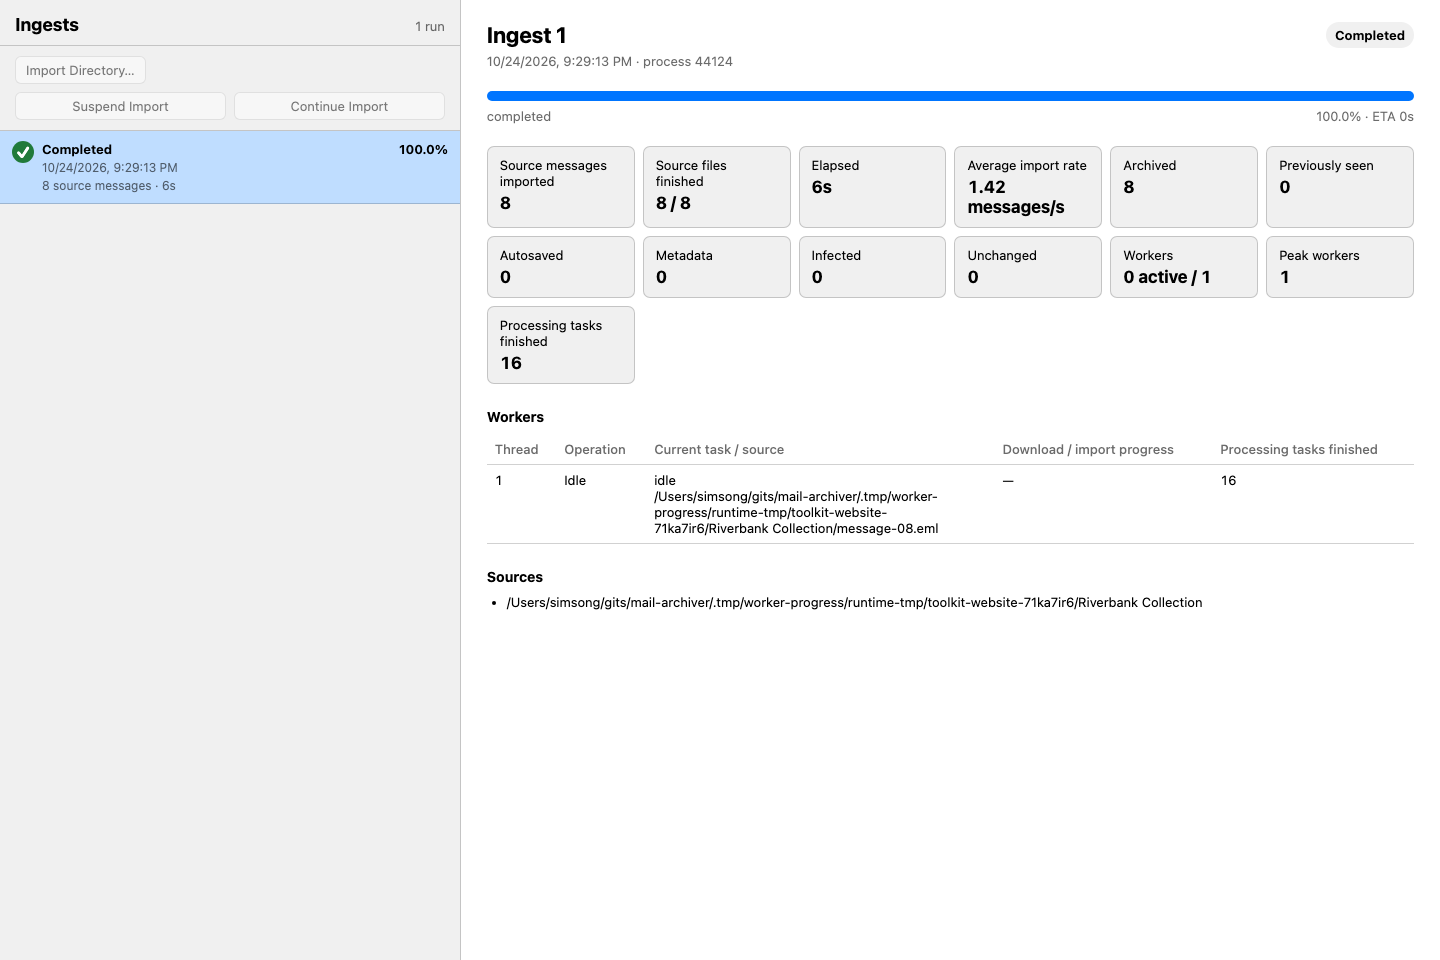
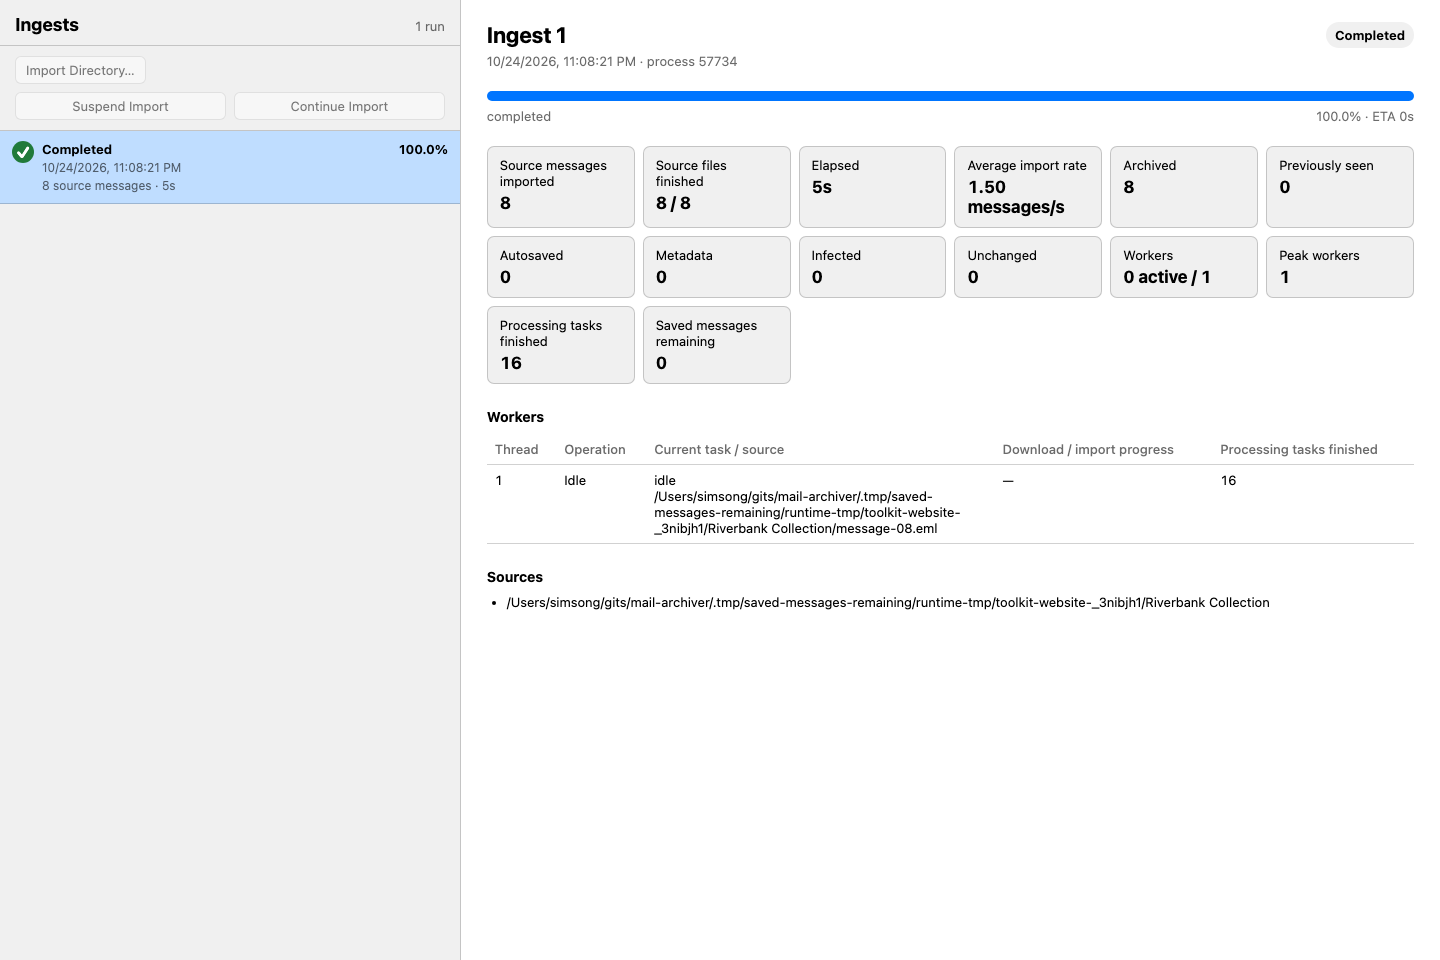
Show remaining saved email messages during processing
Count distinct archived messages with unfinished processing work, publish the backlog in ingest snapshots, and display it in the Ingests window. Keep reporting outside processor fingerprints and refresh only on the driver thread. Bump to 1.0.0a26.

diff --git a/gui/ingests.js b/gui/ingests.js
@@ -224,6 +224,7 @@ function statistics(status) {
   const processing = processingMode(status);
   const imap = status.source_roots.length > 0 && status.source_roots.every(root => root.startsWith("imap://"));
   const values = processing ? [
+    ["Saved messages remaining", status.saved_messages_remaining == null ? "Unavailable" : integer(status.saved_messages_remaining)],
     ["Processing tasks finished", integer(status.processing_jobs_completed)],
     ["Average processing rate", `${(Number(status.processing_jobs_completed) / Math.max(Number(status.elapsed_seconds), 1)).toFixed(2)} tasks/s`],
     ["Elapsed", formatDuration(status.elapsed_seconds)],
@@ -243,11 +244,13 @@ function statistics(status) {
     ["Peak workers", integer(status.peak_workers)]);
   const grid = document.createElement("div");
   if (!processing && status.processing_jobs_completed) values.push(["Processing tasks finished", integer(status.processing_jobs_completed)]);
+  if (!processing && status.saved_messages_remaining != null) values.push(["Saved messages remaining", integer(status.saved_messages_remaining)]);
   grid.className = "statistics";
   for (const [label, value] of values) {
     const cell = document.createElement("div");
     cell.className = "stat";
     if (label === "Processing tasks finished") cell.title = "Completed tasks for messages or MIME parts, including metadata extraction and search indexing. Several tasks can belong to one email.";
+    if (label === "Saved messages remaining") cell.title = "Distinct archived emails with pending, running or failed work, including body and attachment tasks and blocked prerequisites. Excludes future downloads. Older runs may not report this count.";
     cell.append(textSpan(label), textBlock(value, "strong"));
     grid.append(cell);
   }

diff --git a/e2e_tests/test_gui_processing.py b/e2e_tests/test_gui_processing.py
@@ -281,7 +281,7 @@ def test_processing_history_shows_jobs_instead_of_zero_source_progress(tmp_path:
         "started_at": now, "updated_at": now, "completed_at": None, "phase": "recovering archived content",
         "processing_active": True, "processing_job_id": 42, "processing_processor": "mime",
         "processing_jobs_completed": 1665, "active_workers": 2, "peak_workers": 2, "configured_workers": 2,
-        "elapsed_seconds": 120, "workers": [worker, second], "percent": 0, "eta": "finalizing"})
+        "elapsed_seconds": 120, "workers": [worker, second], "percent": 0, "eta": "finalizing", "saved_messages_remaining": 37})
     status_file = IngestStatusFile(archive, status.status_id)
     status_file.write(status)
     expose(page, IngestWindowApi(archive), ("history", "antivirus", "can_import_directory"))
@@ -291,6 +291,11 @@ def test_processing_history_shows_jobs_instead_of_zero_source_progress(tmp_path:
     expect(page.locator(".progress-caption")).not_to_contain_text("finalizing")
     expect(page.locator(".statistics")).not_to_contain_text("Messages")
     expect(page.locator(".statistics")).not_to_contain_text("Files")
+    remaining = page.locator(".stat").filter(has_text="Saved messages remaining").locator("strong")
+    expect(remaining).to_have_text("37")
+    status_file.write(status.model_copy(update={"updated_at": datetime.now(UTC), "saved_messages_remaining": 36}))
+    page.evaluate("window.refreshHistory()")
+    expect(remaining).to_have_text("36")
     rows = page.locator(".worker-table tbody tr")
     expect(rows.nth(0)).to_contain_text("Processing saved mail")
     expect(rows.nth(0)).to_contain_text("Extracting message bodies and attachments")
@@ -306,17 +311,19 @@ def test_processing_history_shows_jobs_instead_of_zero_source_progress(tmp_path:
     page.screenshot(path=str(previews / "processing-progress.png"))
     # A processing stage stays meaningful between jobs; older rows have no reliable worker total.
     status_file.write(status.model_copy(update={"updated_at": datetime.now(UTC), "processing_active": False,
-        "activity_kind": "processing", "workers": [worker.model_copy(update={"phase": "idle", "processing_jobs_completed": None})]}))
+        "activity_kind": "processing", "saved_messages_remaining": None,
+        "workers": [worker.model_copy(update={"phase": "idle", "processing_jobs_completed": None})]}))
     page.evaluate("window.refreshHistory()")
     expect(page.locator(".statistics")).to_contain_text("Processing tasks finished")
     expect(page.locator(".statistics")).not_to_contain_text("Source messages")
+    expect(remaining).to_have_text("Unavailable")
     expect(page.locator(".worker-table tbody tr td").last).to_have_text("Unavailable")
     downloading = worker.model_copy(update={"phase": "fetching messages", "operation": "downloading",
         "path": "Inbox", "activity_done": 25, "activity_total": 100, "activity_unit": "messages"})
     scanning = second.model_copy(update={"phase": "scanning", "operation": "processing", "activity_unit": None})
     status_file.write(status.model_copy(update={"updated_at": datetime.now(UTC), "phase": "ingesting",
         "activity_kind": "source", "processing_active": False, "source_roots": ["imap://unavailable-account"],
-        "workers": [downloading, scanning], "processed_messages": 25}))
+        "workers": [downloading, scanning], "processed_messages": 25, "saved_messages_remaining": None}))
     page.evaluate("window.refreshHistory()")
     expect(rows.nth(0).locator("td").nth(1)).to_have_text("Downloading")
     expect(rows.nth(0)).to_contain_text("25 / 100 messages")
@@ -325,10 +332,11 @@ def test_processing_history_shows_jobs_instead_of_zero_source_progress(tmp_path:
     expect(page.locator(".statistics")).to_contain_text("Download partitions finished")
     status_file.write(status.model_copy(update={"state": "completed", "updated_at": datetime.now(UTC),
         "activity_kind": "processing", "source_roots": ["imap://unavailable-account"],
-        "processed_messages": 25, "files_processed": 8, "files_total": 8}))
+        "processed_messages": 25, "files_processed": 8, "files_total": 8, "saved_messages_remaining": 0}))
     page.evaluate("window.refreshHistory()")
     expect(page.locator(".statistics")).to_contain_text("Source messages downloaded")
     expect(page.locator(".statistics")).to_contain_text("Processing tasks finished")
+    expect(remaining).to_have_text("0")
     expect(page.locator(".history-row.selected .history-summary")).to_contain_text("25 source messages")
     app, api = open_headless(archive, tmp_path / "preferences.json")
     search_page, about_page = page.context.new_page(), page.context.new_page()

diff --git a/tests/test_progress.py b/tests/test_progress.py
@@ -50,7 +50,8 @@ from mailarchiver.sources import SourceInventory
 from mailarchiver.processing.api import ProcessingObject
 from mailarchiver.processing.registry import fingerprint, load_processors
 from mailarchiver.processing.runtime import run
-from mailarchiver.processing.store import connect, submit
+from mailarchiver.processing.store import connect, enqueue, submit
+from mailarchiver.processing_progress import saved_messages_remaining
 from tests.test_processing import MESSAGE, plugin
 
 
@@ -566,6 +567,57 @@ def test_processor_recovery_publishes_live_activity_and_finished_jobs(tmp_path: 
     assert final.active_workers == 0 and final.workers[0].phase == "idle"
     assert [worker.processing_jobs_completed for worker in final.workers] == [2, 1]
     assert final.processed_messages == final.files_processed == final.counts.archived == 0
+
+
+def test_saved_message_backlog_deduplicates_parts_and_tracks_unfinished_work(tmp_path: Path) -> None:
+    """Desktop progress: count archived emails, including failed/blocked work, without counting future imports."""
+    archive = tmp_path / "archive"
+    with connect(archive, create=True) as database:
+        items: list[ProcessingObject] = []
+        for number, catalog_pk in enumerate((1, 2, None, 2)):
+            source = tmp_path / f"message-{number}.eml"
+            source.write_bytes(f"Subject: fixture {number}\n\nbody {number}\n".encode())
+            message_id = submit(database, archive, source, "fixture")
+            payload, = database.execute("SELECT item_json FROM jobs WHERE json_extract(item_json,'$.message_id')=?",
+                                        (message_id,)).fetchone()
+            item = ProcessingObject.model_validate_json(payload)
+            items.append(item)
+            with database:
+                database.execute("INSERT INTO message_state(message_id,root_item_json,catalog_message_pk) VALUES(?,?,?)",
+                                 (message_id, payload, catalog_pk))
+        with database:
+            database.execute("UPDATE jobs SET status='completed' WHERE json_extract(item_json,'$.message_id')<>?", (items[2].message_id,))
+            enqueue(database, items[0].model_copy(update={"pipeline": "message"}), "fixture")
+            parent, = database.execute("SELECT max(job_id) FROM jobs").fetchone()
+            for part in (1, 2):
+                enqueue(database, items[0].model_copy(update={"pipeline": "content", "part_path": (part,)}), "fixture", parent)
+            database.execute("UPDATE jobs SET status='failed' WHERE job_id=?", (parent,))
+            for item in (items[1], items[3]):
+                enqueue(database, item.model_copy(update={"pipeline": "content"}), "fixture")
+        assert saved_messages_remaining(database) == 2
+        reporter = ProgressReporter(status_file=IngestStatusFile(archive, "ingest-remaining"),
+                                    archive=archive, run_pk=1, terminal=False)
+        reporter.track_saved_messages(lambda: saved_messages_remaining(database))
+        reporter.set_phase("Processing saved mail", activity_kind="processing")
+        assert read_ingest_history(archive).statuses[0].saved_messages_remaining == 2
+        with database:
+            database.execute("UPDATE jobs SET status='completed' WHERE json_extract(item_json,'$.message_id')=?",
+                             (items[1].message_id,))
+        assert saved_messages_remaining(database) == 2  # A second processing identity names the same archived email.
+        with database:
+            database.execute("UPDATE jobs SET status='completed' WHERE json_extract(item_json,'$.message_id')=?",
+                             (items[3].message_id,))
+        assert saved_messages_remaining(database) == 1
+        time.sleep(1.01)
+        reporter.refresh()
+        assert read_ingest_history(archive).statuses[0].saved_messages_remaining == 1
+        with database:
+            database.execute("UPDATE jobs SET status='aborted' WHERE json_extract(item_json,'$.message_id')=?",
+                             (items[0].message_id,))
+        assert saved_messages_remaining(database) == 0
+        reporter.finish("completed")  # Completion forces a final sample, without waiting another second.
+        assert read_ingest_history(archive).statuses[0].saved_messages_remaining == 0
+        assert database.execute("SELECT count(*) FROM jobs WHERE status='pending'").fetchone()[0] == 1
 
 
 def test_progress_status_file_preserves_final_run_statistics(tmp_path: Path) -> None:

diff --git a/src/mailarchiver/__main__.py b/src/mailarchiver/__main__.py
@@ -92,6 +92,7 @@ from .message import ParsedMessage
 from .processing.api import PluginStatistics, ProcessingObject
 from .processing.contracts import MailboxReference, ProcessingPolicy, SourceMetadata
 from .processing.production import ProductionPipeline
+from .processing_progress import saved_messages_remaining
 from .plugin_api import (
     ArchiveReference,
     IntegrityDecision,
@@ -276,6 +277,7 @@ class ProgressState(BaseModel):
     processing_jobs_completed: int = 0
     processing_job_id: int | None = None
     processing_processor: str | None = None
+    saved_messages_remaining: int | None = None
 
 
 class OverallProgress(BaseModel):
@@ -515,6 +517,8 @@ class ProgressReporter:
         self.scan_policy: Literal["clamav", "not-scanned", "unknown"] = "unknown"
         self.interrupt_announced = False
         self.activity_kind: Literal["source", "processing"] = "source"
+        self.saved_message_counter: Callable[[], int] | None = None
+        self.last_remaining_monotonic: float | None = None
 
     def start(self) -> None:
         self.display(self.phase)
@@ -533,6 +537,8 @@ class ProgressReporter:
 
     def set_phase(self, phase: str, *, activity_kind: Literal["source", "processing"] = "source") -> None:
         self._assert_driver_thread()
+        self.state.saved_messages_remaining = None
+        self.last_remaining_monotonic = None
         self.activity_kind = activity_kind
         self.base_phase = phase
         self.phase = phase
@@ -651,6 +657,12 @@ class ProgressReporter:
 
     def finish_processing(self) -> None:
         self.updates.put(ProgressUpdate(worker=self._worker_number(), phase="idle", processing_active=False))
+
+    def track_saved_messages(self, counter: Callable[[], int]) -> None:
+        """Bind a read-only queue counter owned by this status driver."""
+        self._assert_driver_thread()
+        self.saved_message_counter = counter
+        self.last_remaining_monotonic = None
 
     def _send(
         self,
@@ -879,6 +891,12 @@ class ProgressReporter:
     ) -> None:
         self._drain_updates()
         now = time.monotonic()
+        if self.activity_kind == "processing" and self.saved_message_counter is not None and (
+            ingest_state != "running" or self.last_remaining_monotonic is None
+            or now - self.last_remaining_monotonic >= STATUS_REFRESH_SECONDS
+        ):
+            self.state.saved_messages_remaining = self.saved_message_counter()
+            self.last_remaining_monotonic = time.monotonic()
         self.last_display_monotonic = now
         display_label = label or self._worker_phase()
         if display_label != self.phase:
@@ -1007,6 +1025,7 @@ class ProgressReporter:
             processing_job_id=state.processing_job_id,
             processing_processor=state.processing_processor,
             activity_kind=self.activity_kind,
+            saved_messages_remaining=state.saved_messages_remaining,
         )
         try:
             self.status_file.write(status)
@@ -2118,6 +2137,7 @@ def _run_ingest(request: IngestRequest, writer_lease: WriterLease, outcome: Inge
             scanner_session=scanner.session if scanner is not None else None, scanner_failure=scanner_failure),
             publish_processed, plugin_dirs=tuple(request.plugin_dir), installation_config=request.installation_config,
             cancelled=check_processor_cancelled, heartbeat=progress.refresh)
+        progress.track_saved_messages(partial(saved_messages_remaining, pipeline.database))
         with pipeline.database:
             pipeline.database.execute("INSERT OR REPLACE INTO processing_settings VALUES('request',?)",
                                       (saved_request.model_dump_json(),))
@@ -2221,6 +2241,9 @@ def _run_ingest(request: IngestRequest, writer_lease: WriterLease, outcome: Inge
             )
             catalog.commit()
         if pipeline is not None:
+            if progress.saved_message_counter is not None and progress.activity_kind == "processing":
+                progress.state.saved_messages_remaining = progress.saved_message_counter()
+            progress.saved_message_counter = None
             print(processor_statistics_table(pipeline.statistics().statistics), file=sys.stderr)
             pipeline.close()
         catalog.close()

diff --git a/tests/test_ingest_recovery.py b/tests/test_ingest_recovery.py
@@ -485,6 +485,9 @@ def test_cli_saved_content_uses_worker_pool_and_preserves_search_and_bytes(tmp_p
     owners.write_text("owner@example.test\n")
     archive = tmp_path / "archive"
     cli(archive, "ingest", "--no-scan", "--defer-content", "--workers", "2", "--owner-names-file", str(owners), str(source))
+    from mailarchiver.processing_progress import saved_messages_remaining
+    with connect(archive) as database:
+        assert saved_messages_remaining(database) == 3
     canonical = [(path, hashlib.sha256(path.read_bytes()).hexdigest()) for path in mbox_directory(archive).glob("*.mbox")]
     plugin(tmp_path, "parallel-gate", '(item.archive.path / ("entered-" + item.message_id)).touch()\n'
            'while len(list(item.archive.path.glob("entered-*"))) < 2:\n'
@@ -494,6 +497,7 @@ def test_cli_saved_content_uses_worker_pool_and_preserves_search_and_bytes(tmp_p
     cli(archive, "process", "--phase", "all", "--plugin-dir", str(tmp_path))
     status = read_ingest_history(archive).statuses[0]
     assert status.peak_workers == 2 and status.processing_jobs_completed > 0
+    assert status.saved_messages_remaining == 0
     assert status.active_workers == 0 and not status.processing_active
     with sqlite3.connect(archive / "search.sqlite3") as search:
         for number in range(3):

diff --git a/src/mailarchiver/processing_progress.py b/src/mailarchiver/processing_progress.py
@@ -1,0 +1,21 @@
+# Copyright (C) 2026 Simson L. Garfinkel. All Rights Reserved.
+# Read queue accounting for the import status driver without changing processing.
+# Each canonical email is counted once across its unfinished jobs and MIME parts.
+# Only archived messages qualify; future downloads and unpublished inputs do not.
+# Pending, running and failed work includes jobs blocked by unfinished parents.
+# The caller owns the existing SQLite connection and controls refresh frequency.
+# The status driver uses this read-only query; no queue or archive state is changed.
+# Keeping reporting outside the processor package preserves its replay fingerprint.
+"""Distinct saved-message backlog accounting for import progress."""
+from __future__ import annotations
+
+import sqlite3
+
+
+def saved_messages_remaining(database: sqlite3.Connection) -> int:
+    """Count archived emails with unfinished work, including retryable failures."""
+    return database.execute(
+        "SELECT count(DISTINCT state.catalog_message_pk) FROM jobs "
+        "JOIN message_state AS state ON state.message_id=json_extract(jobs.item_json,'$.message_id') "
+        "WHERE jobs.status IN ('pending','running','failed') AND state.catalog_message_pk IS NOT NULL"
+    ).fetchone()[0]

diff --git a/src/mailarchiver/ingest_status.py b/src/mailarchiver/ingest_status.py
@@ -109,6 +109,7 @@ class IngestStatus(BaseModel):
     processing_job_id: int | None = None
     processing_processor: str | None = None
     activity_kind: Literal["source", "processing"] | None = None
+    saved_messages_remaining: int | None = Field(default=None, ge=0)
 
     @field_validator("started_at", "updated_at", "completed_at")
     @classmethod

diff --git a/doc/implementation/DESKTOP.md b/doc/implementation/DESKTOP.md
@@ -7,6 +7,18 @@ live in [plans](../plans/README.md); historical evidence does not validate this 
 
 ## Saved import recovery and notices
 
+`processing_progress.saved_messages_remaining` joins unfinished jobs to
+`message_state` and counts distinct non-null catalog message IDs. The existing
+status/job index limits work to pending/running/failed queues; blocked jobs
+remain included. `ProgressReporter` samples this read-only query on its owner
+connection at most once per second during processing stages, resets between
+stages and forces the final sample. Optional `saved_messages_remaining` is
+persisted with each snapshot and renders Unavailable for old history. Reporting
+lives outside the processor package so its fingerprint does not invalidate
+completed work. `make test-ingest-progress` covers duplicate part/identity counts,
+failures/blocked jobs, unpublished inputs, countdown snapshots, CLI completion
+and browser rendering.
+
 Optional processing fields in ingest snapshots default safely for old history.
 `activity_kind` persists the source/processing stage independently of momentary
 worker activity. Processing cards and history show finished tasks and average

diff --git a/doc/requirements/DESKTOP.md b/doc/requirements/DESKTOP.md
@@ -7,6 +7,14 @@ platform/release acceptance. Deferred features live in [plans](../plans/README.m
 
 ## Saved import recovery and notices
 
+During saved-mail processing, show **Saved messages remaining**. Count each
+canonical archived email once across its pending, running or failed jobs,
+including body/attachment work and blocked dependencies. Exclude unpublished
+inputs and future downloads. Refresh about once per second and at completion;
+zero means no known unfinished saved-message work, not that future downloads
+are complete. Old snapshots without the counter show Unavailable. This reporting
+must not change the processor configuration or trigger reprocessing.
+
 During archived-content and pending-ingest recovery, show the active processor,
 job activity and finished-job count. Use an indeterminate progress bar while the
 job total is unknown; do not display an idle-worker dashboard or finalizing ETA

diff --git a/doc/RELEASE_NOTES.md b/doc/RELEASE_NOTES.md
@@ -6,6 +6,15 @@ Entries describe their recorded revisions. For current behavior use the
 [user manual](USER_MANUAL.md) and [CLI reference](CLI_REFERENCE.md). Retired
 Rust delivery plans and historical package checks are not current acceptance.
 
+## Saved messages remaining
+
+Add a distinct archived-email backlog counter alongside finished processing tasks.
+Include pending, running and failed work across message bodies and attachments,
+without counting one email several times. Sample on the database owner once per
+second and at completion; older history reports Unavailable. Keep the metric
+outside processor fingerprinting so adding it does not restart completed work.
+Advance the development alpha.
+
 ## Distinct source and processing progress
 
 Fix worker task counters so each row reports its own completed work. Processing

diff --git a/doc/USER_MANUAL.md b/doc/USER_MANUAL.md
@@ -66,6 +66,13 @@ progress and its own finished processing-task total. An em dash means source
 progress does not apply; Unavailable means an older run did not record a reliable
 per-worker total. Worker counts remain visible while a worker is idle.
 
+
+**Saved messages remaining** counts archived emails with unfinished work, once
+per email even when several body or attachment tasks remain. Pending, running,
+failed and blocked work is included; mail still on the server is excluded.
+The count refreshes during processing and can increase if more saved-message
+work is discovered. Older runs may show Unavailable.
+
 ## Continuing an interrupted import
 
 When reopening an archive with unfinished work, review the source, import start,

diff --git a/website/content/importing.md b/website/content/importing.md
@@ -152,3 +152,10 @@ The cards show finished processing tasks and their average rate. Each worker row
 separates downloading/importing from processing and reports its own finished-task
 count. Several processing tasks can belong to one email. IMAP source progress is
 reported as download partitions rather than files.
+
+
+**Saved messages remaining** counts archived emails with unfinished work, once
+per email even when several body or attachment tasks remain. Pending, running,
+failed and blocked work is included; mail still on the server is excluded.
+The count refreshes during processing and can increase if more saved-message
+work is discovered. Older runs may show Unavailable.
